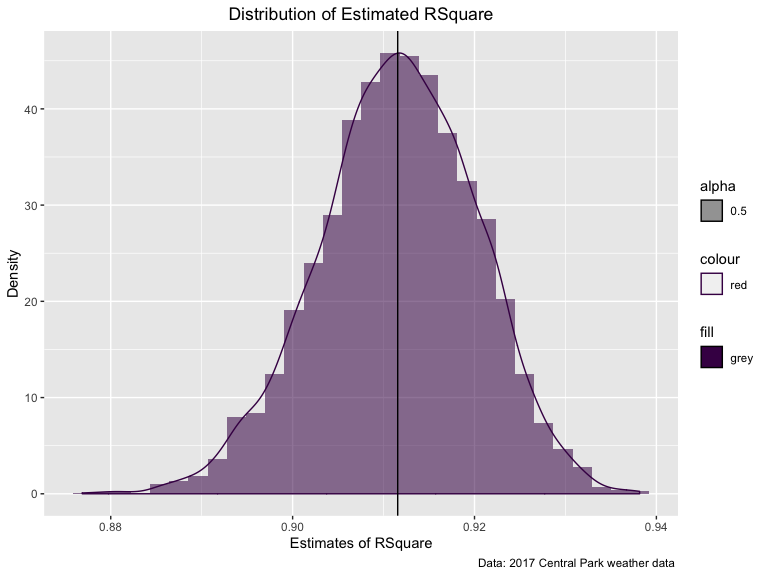
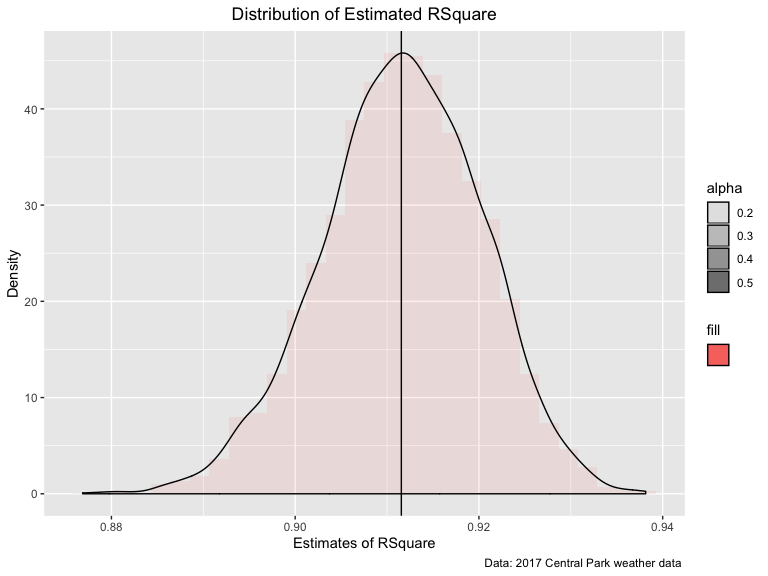
Finished problem 2. Not sure why plot color and line style not working as I wanted it to be.

diff --git a/p8105_hw6_yc384.md b/p8105_hw6_yc384.md
@@ -1,4 +1,4 @@
-P8105\_hw5\_yc384
+P8105\_hw6\_yc384
 ================
 Ying Chen (UNI: yc384)
 11/5/2019
@@ -183,14 +183,12 @@ skimr::skim(birthweight)
     ##     5      60   ▇▁▁▁▁▁▁▁
     ##    28      89   ▁▁▁▇▇▁▁▁
 
-From the above summary, we can see that this data contains 4342
-observatons and 20 variables. There are no missing data. We then start
-tidying the data by converting numeirical variables to factor varaibles
-for babysex, father’s race, mother’s race and malformation history.
-
-Looking at variables: pnumlbw and pnumsga, summary shows 0 for all the
-statistics, which indicate these two variables maynot have valid
-information and we will exclude them from future analysis.
+**Note:** From the above summary, we can see that this data contains
+4342 observatons and 20 variables. At first glance, there are no missing
+data. However, looking at the other statistics, we can see that
+variables pnumlbw and pnumsga show 0 for all the statistics, which
+indicate these two variables maynot have valid information and we should
+exclude them from future analysis.
 
 ``` r
 summary(birthweight$pnumlbw)
@@ -207,6 +205,10 @@ summary(birthweight$pnumsga)
     ##       0       0       0       0       0       0
 
 #### Step 3: Tidy data
+
+We then start tidying the data by converting numeirical variables to
+factor varaibles for babysex, father’s race, mother’s race and
+malformation history.
 
 ``` r
 birthweight_tidy = 
@@ -242,7 +244,7 @@ My model will use birth weight (bwt) as the outcome variable and the
 following variables as main effects: babysex, gestational age in weeks,
 baby’s length at birth and average number of cigarettes smoked per day
 during pregnancy. I also included a two-way interaction term of
-blength\*bhead.
+blength\*bhead because they are correlated in general.
 
 ``` r
 bwt_lm = 
@@ -277,9 +279,9 @@ summary(bwt_lm)
     ## Multiple R-squared:  0.6912, Adjusted R-squared:  0.6907 
     ## F-statistic:  1617 on 6 and 4335 DF,  p-value: < 2.2e-16
 
-**Note:** From the model result, we can see that the two-way interaction
-term of blength\*bhead is highly significant. All other main effects
-(except the ones in the interaction term) are also significant
+**Note:** From the model results, we can see that the two-way
+interaction term of blength\*bhead is highly significant. All other main
+effects (except the ones in the interaction term) are also significant
 predictors.
 
 #### Step 5: Plot model residuals against fitted values use add\_predictions and add\_residuals
@@ -434,23 +436,7 @@ weather_df =
     tmin = tmin / 10,
     tmax = tmax / 10) %>%
   select(name, id, everything())
-```
 
-    ## Registered S3 method overwritten by 'crul':
-    ##   method                 from
-    ##   as.character.form_file httr
-
-    ## Registered S3 method overwritten by 'hoardr':
-    ##   method           from
-    ##   print.cache_info httr
-
-    ## file path:          /Users/macbook/Library/Caches/rnoaa/ghcnd/USW00094728.dly
-
-    ## file last updated:  2019-09-04 21:33:58
-
-    ## file min/max dates: 1869-01-01 / 2019-09-30
-
-``` r
 head(weather_df, 3)
 ```
 
@@ -490,15 +476,16 @@ head(bootstrap_sample, 5)
     ## #   statistic1 <dbl>, p.value1 <dbl>, df <int>, logLik <dbl>, AIC <dbl>,
     ## #   BIC <dbl>, deviance <dbl>, df.residual <int>
 
-#### Step 3: Plot the distribution of your estimates, and describe these in words.
+#### Step 3: Plot the distribution of the estimates, and describe these in words.
 
 ``` r
+plot_r2 = 
 bootstrap_sample %>% 
   filter(term == "tmin") %>% 
   select(r.squared, adj.r.squared) %>%
   ggplot() + 
-  geom_histogram(aes(x = r.squared, y =..density.., alpha = 0.5, fill = "grey")) +
-  geom_density(aes(x = r.squared,y=..density.., alpha = 0.5, color = "red")) +
+  geom_histogram(aes(x = r.squared, y =..density.., alpha = 0.2, fill="")) +
+  geom_density(aes(x = r.squared, y=..density.., alpha = 0.6)) +
   labs(
     title = "Distribution of Estimated RSquare",
     x = "Estimates of RSquare",
@@ -506,12 +493,100 @@ bootstrap_sample %>%
     caption = "Data: 2017 Central Park weather data ") +
   geom_vline(aes(xintercept = mean(r.squared))) +
   theme(plot.title = element_text(hjust = 0.5))
+
+plot_r2
 ```
 
 <img src="p8105_hw6_yc384_files/figure-gfm/unnamed-chunk-14-1.png" width="90%" />
 
 **Note:** From above plot, we can see that the distribution of R square
-is close to a normal
-distribution.
+is close to a normal distribution with mean a little over
+0.91
 
-#### Step 4: Using the 5000 bootstrap estimates, identify the 2.5% and 97.5% quantiles to provide a 95% confidence interval for r̂2 and log(β̂0∗β̂1)
+#### Step 4: Using the 5000 bootstrap estimates, identify the 2.5% and 97.5% quantiles to provide a 95% confidence interval for r̂2 an dlog(β̂0∗β̂1̂1)
+
+  - First, we compute the 95% Confidenc Interval (CI) for r̂2 and we
+    then add the lower and upper bounds to the previous plot.
+
+<!-- end list -->
+
+``` r
+CI95_r2 = 
+  bootstrap_sample %>% 
+  filter(term == "tmin") %>% 
+  pull(r.squared) %>% 
+  quantile(c(0.025, 0.975))
+
+CI95_r2
+```
+
+    ##      2.5%     97.5% 
+    ## 0.8938343 0.9275407
+
+``` r
+plot_r2 + 
+  geom_vline(aes(xintercept = 0.8938942,  colour="red", linetype="dotted")) +
+  geom_vline(aes(xintercept = 0.9278097,  colour="red", linetype="dotted")) +
+    labs(
+    title = "Distribution of Estimated RSquare",
+    x = "Estimates of RSquare",
+    y = "Density"
+    )
+```
+
+<img src="p8105_hw6_yc384_files/figure-gfm/unnamed-chunk-15-1.png" width="90%" />
+
+**Note:** From above plot, we can see that the distribution of R square
+is close to a normal distribution with a little heavy tail on the right.
+The mean is a little over 0.91 and a 95% CI of (0.89, 0.93). This
+indicates that our model fits the data pretty well.
+
+  - We then do a log transformation of the results and compute the 95%
+    CI for log(β̂0∗β̂1) and we add the lower and upper bounds to the
+    previous plot.
+
+<!-- end list -->
+
+``` r
+log_bs_sample =
+  bootstrap_sample %>% 
+  select(.id, term, estimate) %>% 
+  pivot_wider(
+    id = .id,
+    values_from = estimate,
+    names_from = term
+  ) %>% 
+  janitor::clean_names() %>% 
+  mutate(log_b01 = log(intercept*tmin)) 
+```
+
+``` r
+CI95_logb01 = 
+  log_bs_sample %>% 
+  pull(log_b01) %>% 
+  quantile(c(0.025, 0.975))
+
+CI95_logb01
+```
+
+    ##     2.5%    97.5% 
+    ## 1.963457 2.057467
+
+``` r
+log_bs_sample %>% 
+  ggplot() + geom_histogram(aes(x = log_b01, y =..density.., alpha = 0.2, fill = "red")) +   
+  labs(
+    title = "Distribution Plot of the Estimate of log(β̂0 ∗ β̂1)",
+    x = "Estimate of log(β̂0 ∗ β̂1)",
+    y = "Density",
+    caption = "Data: 2017 Central Park weather data") +
+  geom_density(aes(x = log_b01, y=..density.., alpha = 0.6)) +
+  geom_vline(aes(xintercept = mean(log_b01), colour="red", linetype="dotted")) +
+  geom_vline(aes(xintercept = 1.965296,  colour="red", linetype="dotted")) +
+  geom_vline(aes(xintercept = 2.057525,  colour="red", linetype="dotted")) 
+```
+
+<img src="p8105_hw6_yc384_files/figure-gfm/unnamed-chunk-18-1.png" width="90%" />
+
+**Note:** From the above plot, we can see that log(β̂0∗β̂1) follows a
+normal distributioasan as well with a heavier tail on the left.
